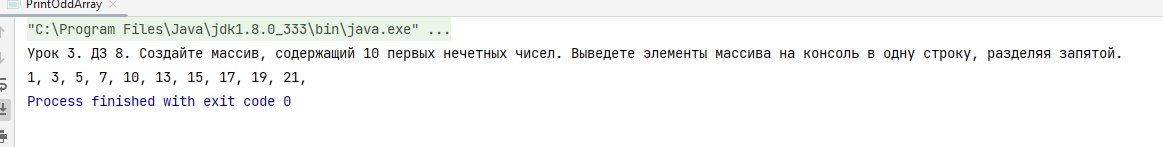
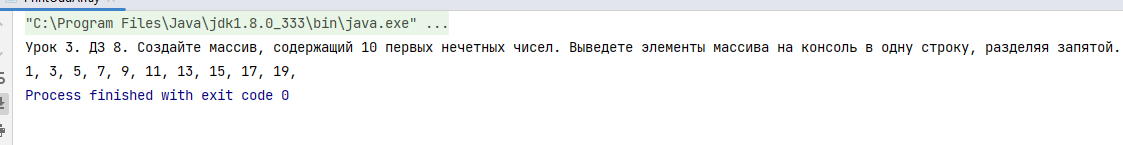
PrintOddArray. Исправлена ошибка

Changed region(s): [[0.0, 0.0, 1.0, 0.4138], [0.0, 0.4414, 0.2805, 0.8276], [0.0, 0.8828, 0.0312, 0.9655]]

diff --git a/src/main/java/hillel/homeworks/lesson3/PrintOddArray.java b/src/main/java/hillel/homeworks/lesson3/PrintOddArray.java
@@ -3,7 +3,7 @@ package hillel.homeworks.lesson3;
 public class PrintOddArray {
     public static void main(String[] args) {
         System.out.println("Урок 3. ДЗ 8. Создайте массив, содержащий 10 первых нечетных чисел. Выведете элементы массива на консоль в одну строку, разделяя запятой.");
-        int[] a = {1, 3, 5, 7, 10, 13, 15, 17, 19, 21};
+        int[] a = {1, 3, 5, 7, 9, 11, 13, 15, 17, 19};
         for (int i = 0; i <= a.length-1; i++) {
             System.out.print(a[i] + ", ");
         }
